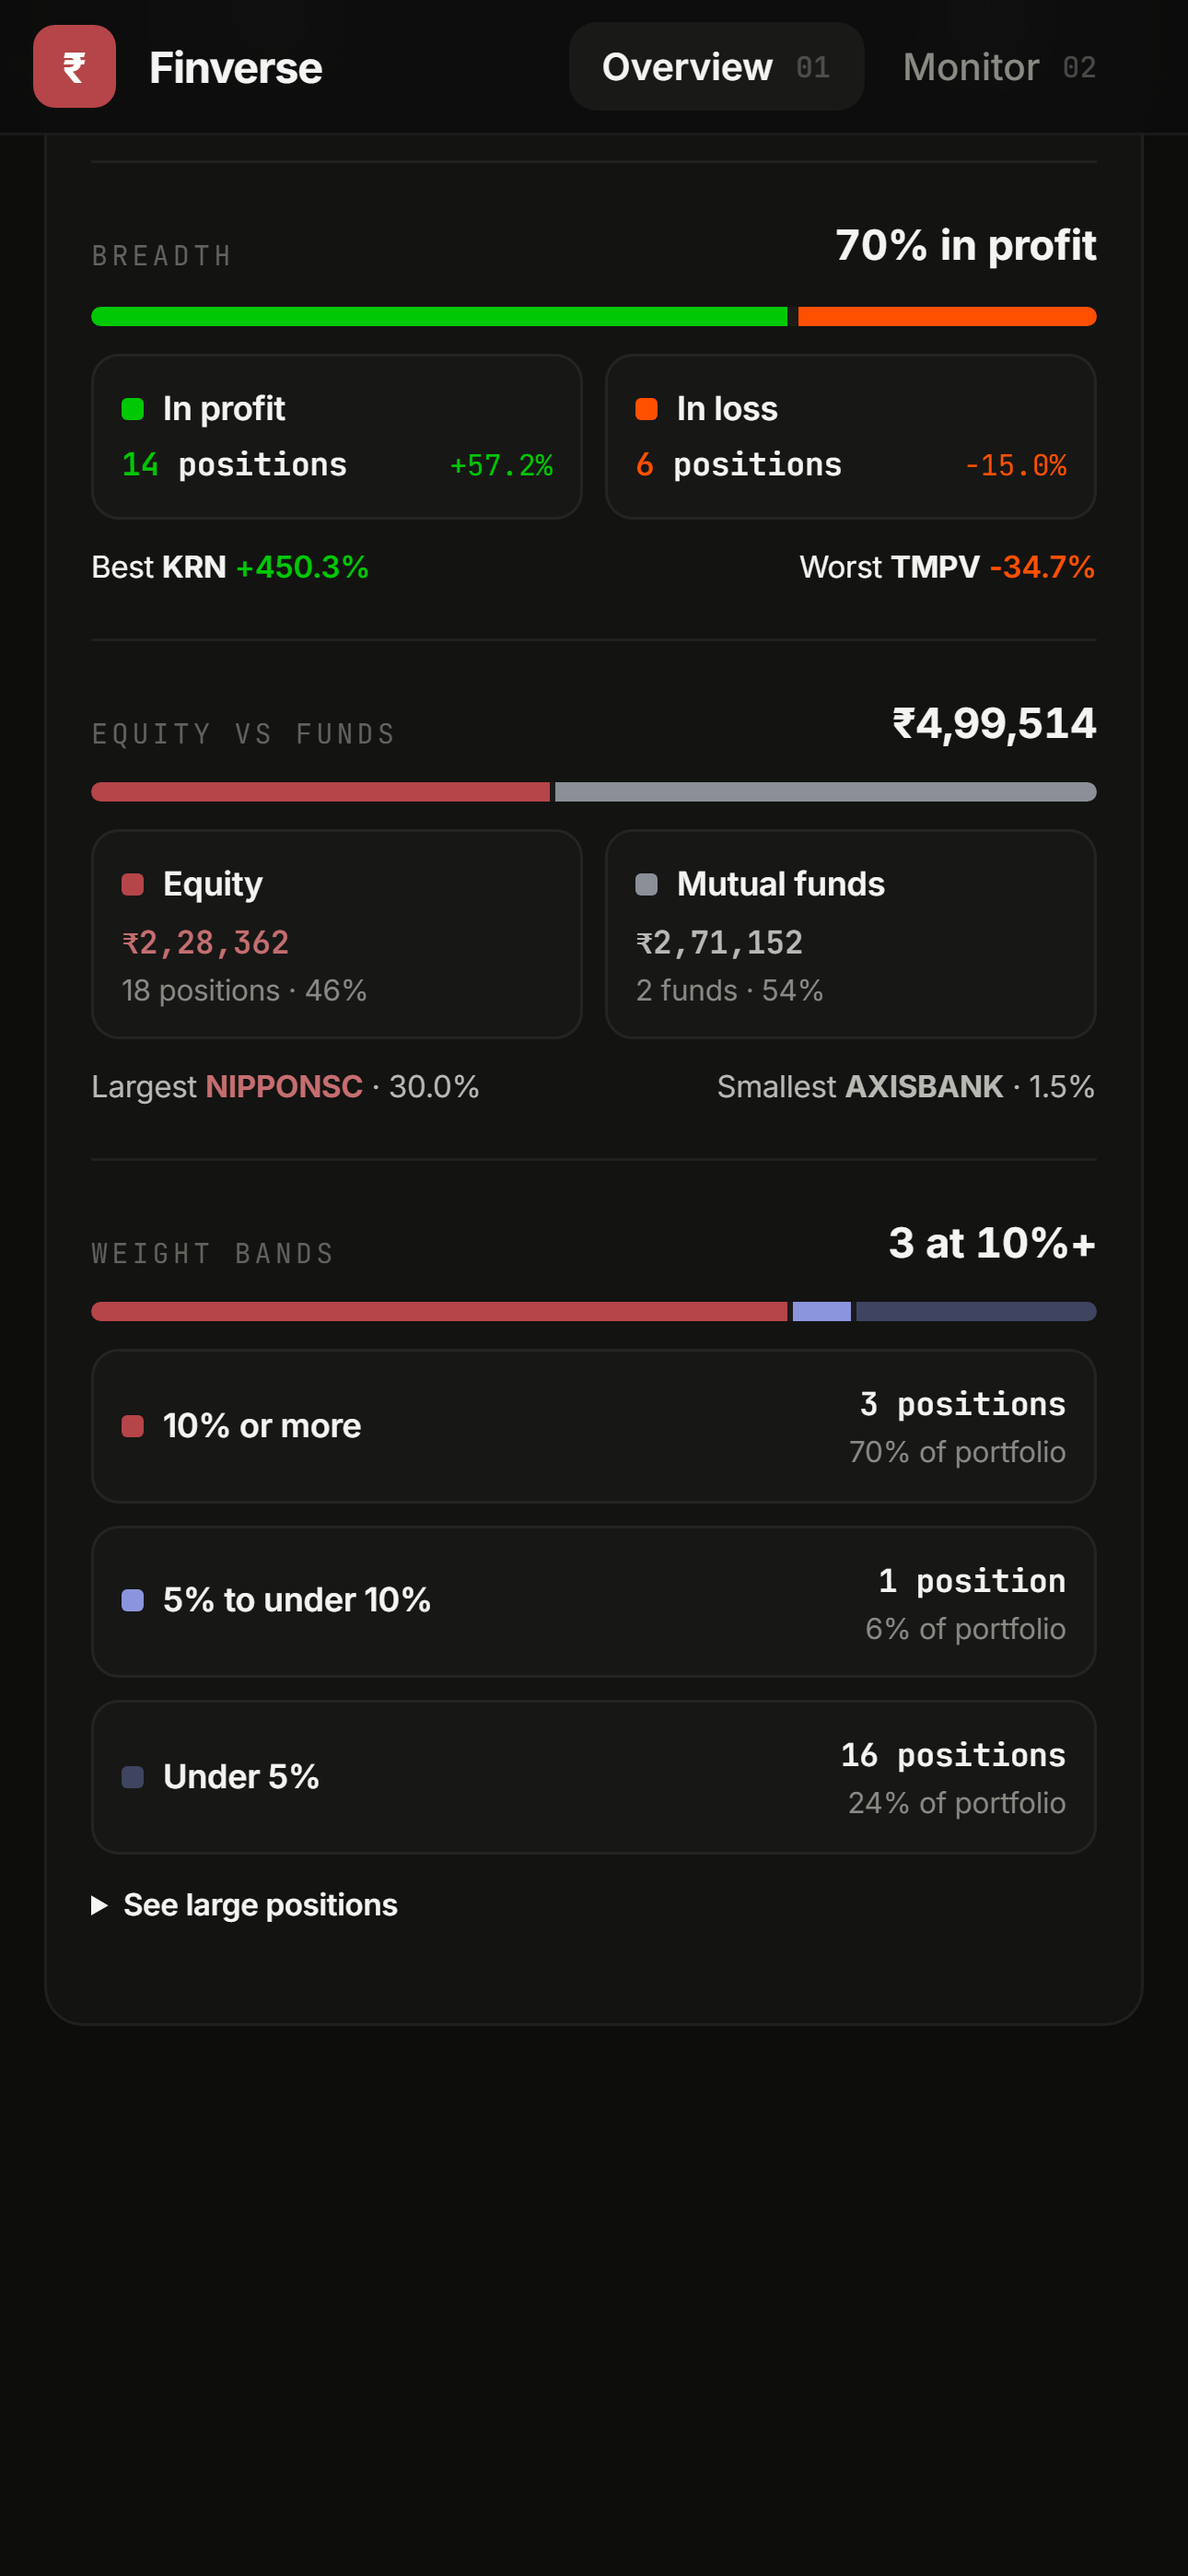
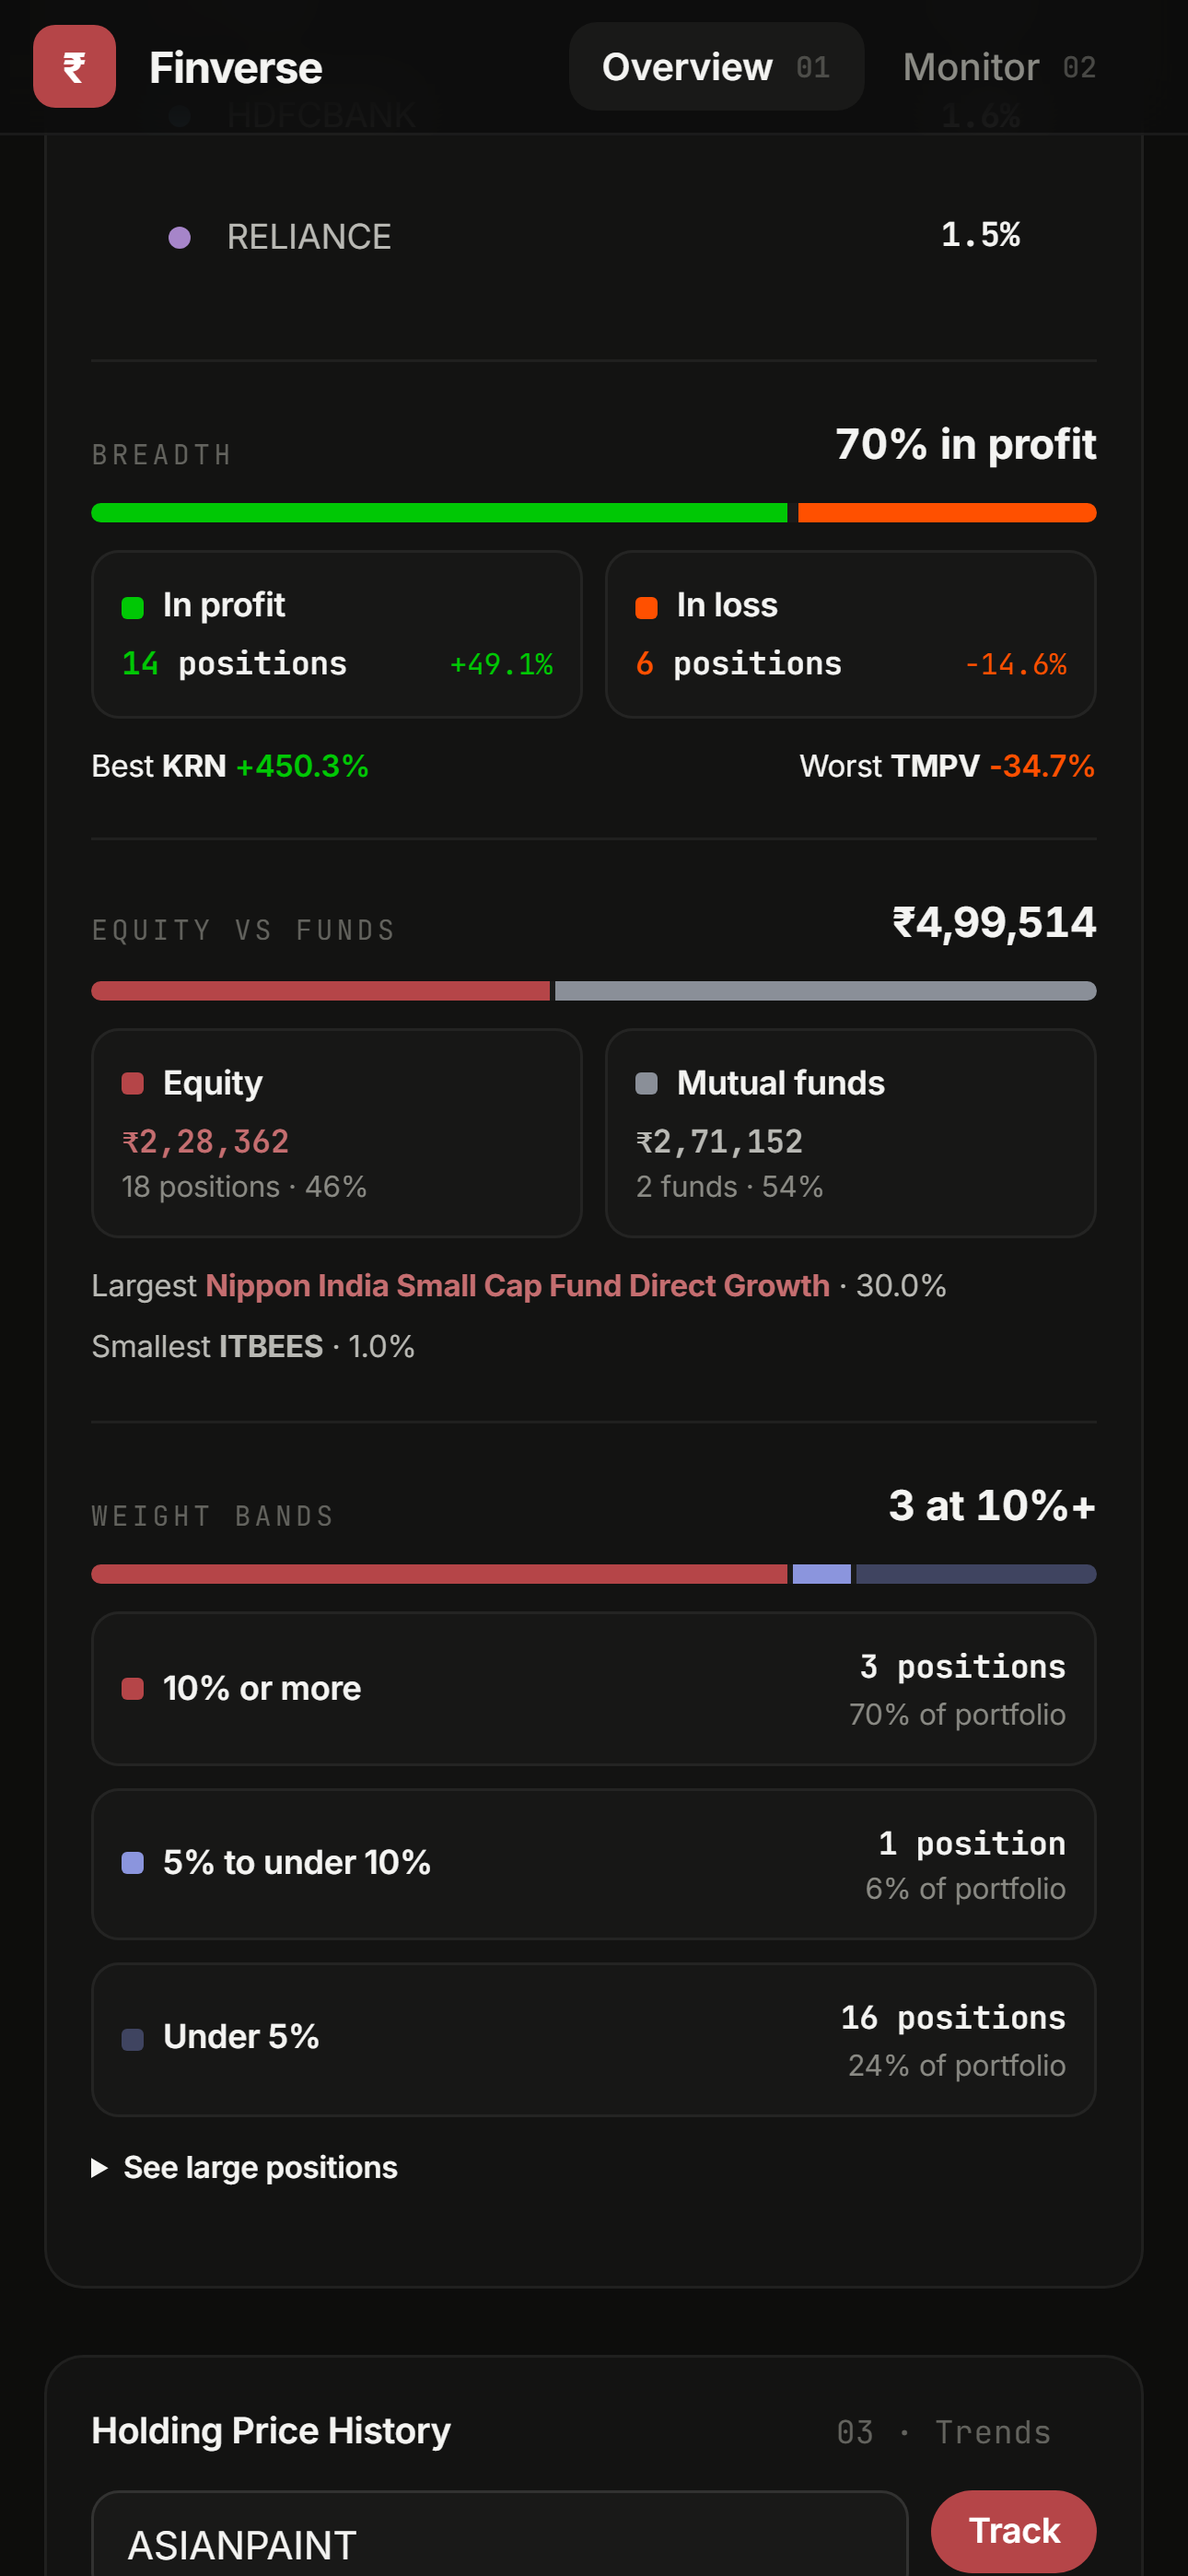
fix: stack mobile allocation extrema

diff --git a/src/design.css b/src/design.css
@@ -1938,6 +1938,17 @@ body {
     gap: 10px;
     font-size: 11px;
   }
+  .alloc-edge-notes--holdings {
+    display: grid;
+    gap: 6px;
+    line-height: 1.45;
+  }
+  .alloc-edge-notes--holdings > span {
+    overflow: visible;
+    text-overflow: clip;
+    white-space: normal;
+  }
+  .alloc-edge-notes--holdings > span:last-child { text-align: left; }
   .alloc-member-note { display: none; }
   .alloc-member-details {
     display: block;
